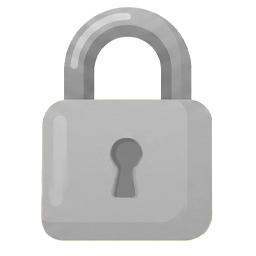
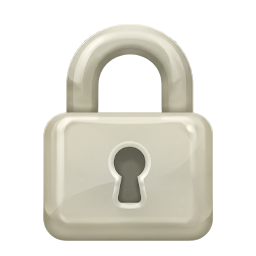
UI 수정 중

diff --git a/index.html b/index.html
@@ -34,6 +34,8 @@
             --tray-gap: 8px;
             --gem-size: 84%;
             --socket-shape: polygon(18% 0%, 82% 0%, 100% 18%, 100% 82%, 82% 100%, 18% 100%, 0% 82%, 0% 18%);
+            --socket-offset-y: 2px;
+            --socket-outline-size-boost: 6px;
             --gem-screen-overlay:
                 linear-gradient(180deg,
                     rgba(255, 255, 255, 0.48) 0 16%,
@@ -227,7 +229,7 @@
             height: 100%;
             left: 50%;
             top: 50%;
-            transform: translate(-50%, -50%);
+            transform: translate(-50%, calc(-50% + var(--socket-offset-y)));
             border-radius: 0;
             clip-path: var(--socket-shape);
             background: url("src/assets/jewel_soket.png") center / contain no-repeat;
@@ -242,7 +244,7 @@
             height: 100%;
             left: 50%;
             top: 50%;
-            transform: translate(-50%, -50%);
+            transform: translate(-50%, calc(-50% + var(--socket-offset-y)));
             border-radius: 0;
             clip-path: var(--socket-shape);
             background: url("src/assets/jewel_soket.png") center / contain no-repeat;
@@ -254,13 +256,12 @@
         .scene-pocket-tray .tray-slot.next-open-slot::after {
             content: "";
             position: absolute;
-            width: calc(100% + 4px);
-            height: calc(100% + 4px);
+            width: calc(100% + 4px + var(--socket-outline-size-boost));
+            height: calc(100% + 4px + var(--socket-outline-size-boost));
             left: 50%;
             top: 50%;
-            transform: translate(-50%, -50%);
-            border: 1.4px dashed #75c397;
-            border-radius: 6px;
+            transform: translate(-50%, calc(-50% + var(--socket-offset-y)));
+            background: url("src/assets/jewel_soket_outline.png") center / contain no-repeat;
             box-sizing: border-box;
             opacity: 1;
             z-index: 2;
@@ -336,7 +337,7 @@
             aspect-ratio: 1;
             left: 50%;
             top: 50%;
-            transform: translate(-50%, -50%);
+            transform: translate(-50%, calc(-50% + var(--socket-offset-y)));
             clip-path: var(--socket-shape);
             background:
                 linear-gradient(180deg, rgba(172, 142, 108, 0.028), rgba(172, 142, 108, 0.055)),
@@ -373,7 +374,7 @@
             aspect-ratio: 1;
             left: 50%;
             top: 50%;
-            transform: translate(-50%, -50%);
+            transform: translate(-50%, calc(-50% + var(--socket-offset-y)));
             clip-path: var(--socket-shape);
             background: url("src/assets/jewel_soket.png") center / contain no-repeat;
             filter: none;
@@ -388,7 +389,7 @@
             aspect-ratio: 1;
             left: 50%;
             top: 50%;
-            transform: translate(-50%, -50%);
+            transform: translate(-50%, calc(-50% + var(--socket-offset-y)));
             clip-path: var(--socket-shape);
             background: url("src/assets/jewel_soket.png") center / contain no-repeat;
             filter: none;
@@ -399,13 +400,12 @@
         .tray-slot.next-open-slot::after {
             content: "";
             position: absolute;
-            width: calc(var(--gem-size) + 6px);
-            height: calc(var(--gem-size) + 6px);
+            width: calc(var(--gem-size) + 6px + var(--socket-outline-size-boost));
+            height: calc(var(--gem-size) + 6px + var(--socket-outline-size-boost));
             left: 50%;
             top: 50%;
-            transform: translate(-50%, -50%);
-            border: 1.6px dashed #75c397;
-            border-radius: 8px;
+            transform: translate(-50%, calc(-50% + var(--socket-offset-y)));
+            background: url("src/assets/jewel_soket_outline.png") center / contain no-repeat;
             box-sizing: border-box;
             opacity: 1;
             z-index: 2;
@@ -553,7 +553,7 @@
             aspect-ratio: 1;
             left: 50%;
             top: 50%;
-            transform: translate(-50%, -50%);
+            transform: translate(-50%, calc(-50% + var(--socket-offset-y)));
             clip-path: var(--socket-shape);
             background:
                 linear-gradient(180deg, rgba(172, 142, 108, 0.036), rgba(172, 142, 108, 0.072)),
@@ -576,7 +576,7 @@
             aspect-ratio: 1;
             left: 50%;
             top: 50%;
-            transform: translate(-50%, -50%);
+            transform: translate(-50%, calc(-50% + var(--socket-offset-y)));
             clip-path: var(--socket-shape);
             background:
                 linear-gradient(180deg, rgba(172, 142, 108, 0.036), rgba(172, 142, 108, 0.072)),
@@ -894,7 +894,7 @@
             position: absolute;
             width: 28px;
             height: 28px;
-            transform: translate(-50%, -50%);
+            transform: translate(-50%, calc(-50% + var(--socket-offset-y)));
             animation: firework-pop 1.26s ease-out forwards;
         }
 
@@ -907,7 +907,7 @@
             border-radius: 50%;
             background:
                 radial-gradient(circle, rgba(255,255,255,0.98) 0 24%, var(--burst-color, #E0C56D) 24% 58%, rgba(255,255,255,0) 72%);
-            transform: translate(-50%, -50%);
+            transform: translate(-50%, calc(-50% + var(--socket-offset-y)));
             box-shadow:
                 0 0 18px rgba(255, 255, 255, 0.8),
                 0 0 38px var(--burst-glow, rgba(255, 83, 40, 0.7));
@@ -1168,7 +1168,7 @@
         }
 
         .pocket-action-button.icon-magic {
-            --button-icon-image: transparent url("src/assets/magic.png?v=20260605-1");
+            --button-icon-image: transparent url("src/assets/magic.png?v=20260611-1");
             --button-icon-size: 56%;
             --button-icon-offset-x: -1px;
         }
@@ -1179,14 +1179,14 @@
         }
 
         .pocket-action-button.icon-clean {
-            --button-icon-image: transparent url("src/assets/clean.png?v=20260605-1");
+            --button-icon-image: transparent url("src/assets/clean.png?v=20260611-1");
             --button-icon-size: 62%;
             --button-icon-offset-x: 1px;
             --button-icon-offset-y: -1px;
         }
 
         .pocket-action-button.icon-rock {
-            --button-icon-image: transparent url("src/assets/rock.png?v=20260605-1");
+            --button-icon-image: transparent url("src/assets/rock.png?v=20260611-1");
             --button-icon-size: 56%;
             --button-icon-offset-x: 1px;
         }
@@ -3046,6 +3046,7 @@
             bgmOn: true,
             hapticsOn: true
         });
+        const SCENE_CONTRACT_VERSION = "20260611-1";
         const LIFECYCLE_DEBUG_LIMIT = 96;
         const PIXEL_ADMIN_AUTO_SAVE_DELAY_MS = 500;
 
@@ -4157,7 +4158,7 @@
                 return colorJewelSceneContractPromise;
             }
 
-            colorJewelSceneContractPromise = fetch("./Color_Jewel.contract.json", { cache: "no-store" })
+            colorJewelSceneContractPromise = fetch(`./Color_Jewel.contract.json?v=${SCENE_CONTRACT_VERSION}`, { cache: "no-store" })
                 .then((response) => {
                     if (!response.ok) {
                         throw new Error(`Color_Jewel contract load failed: ${response.status}`);